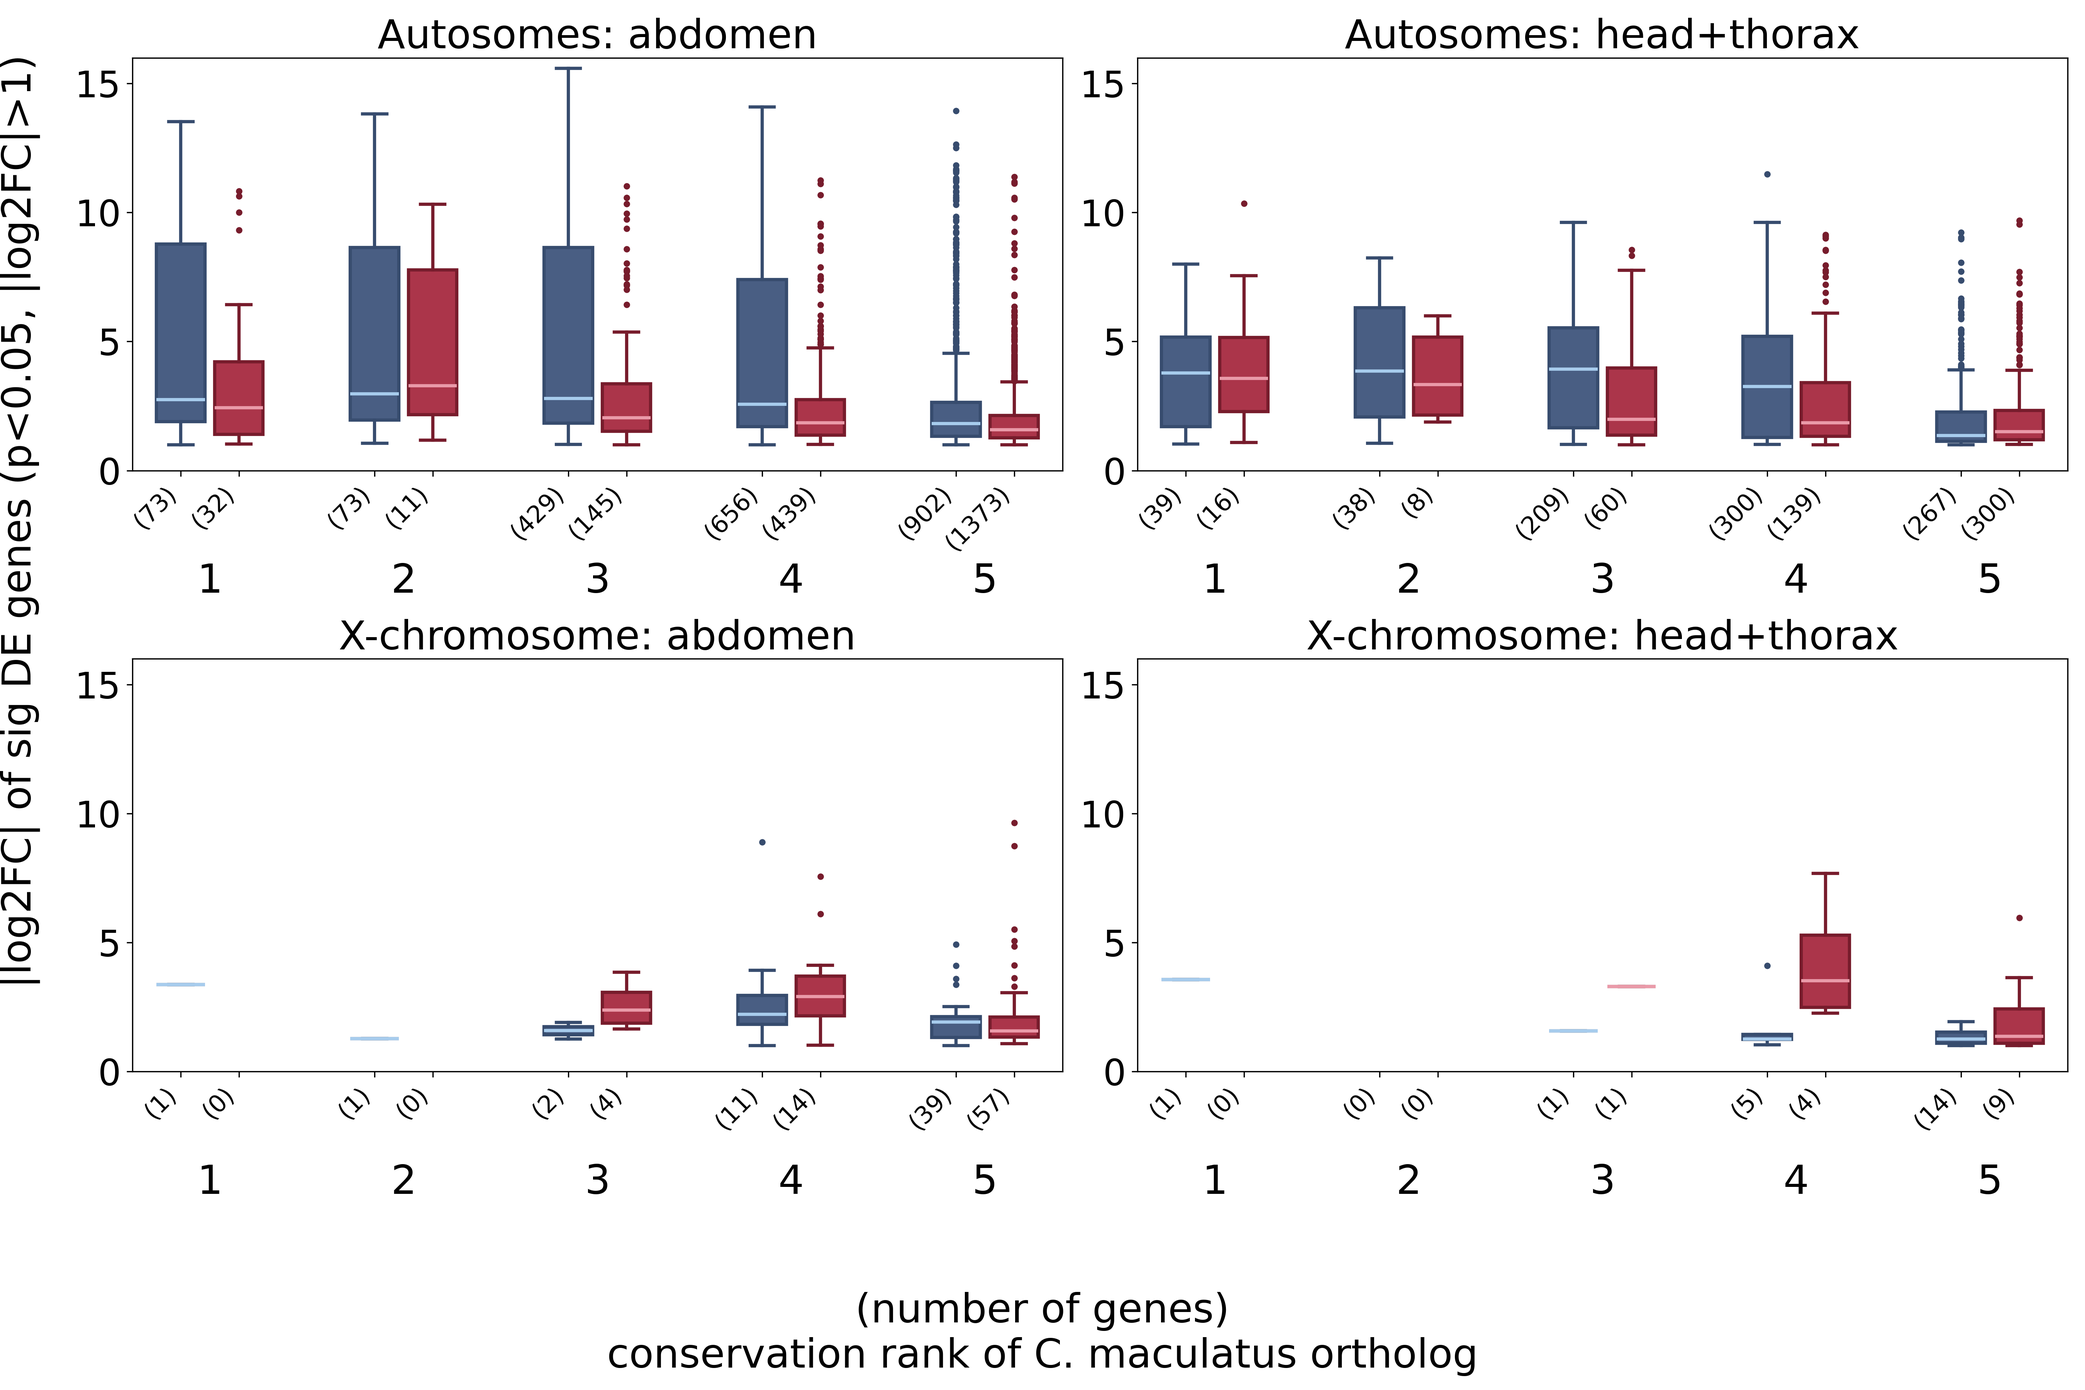
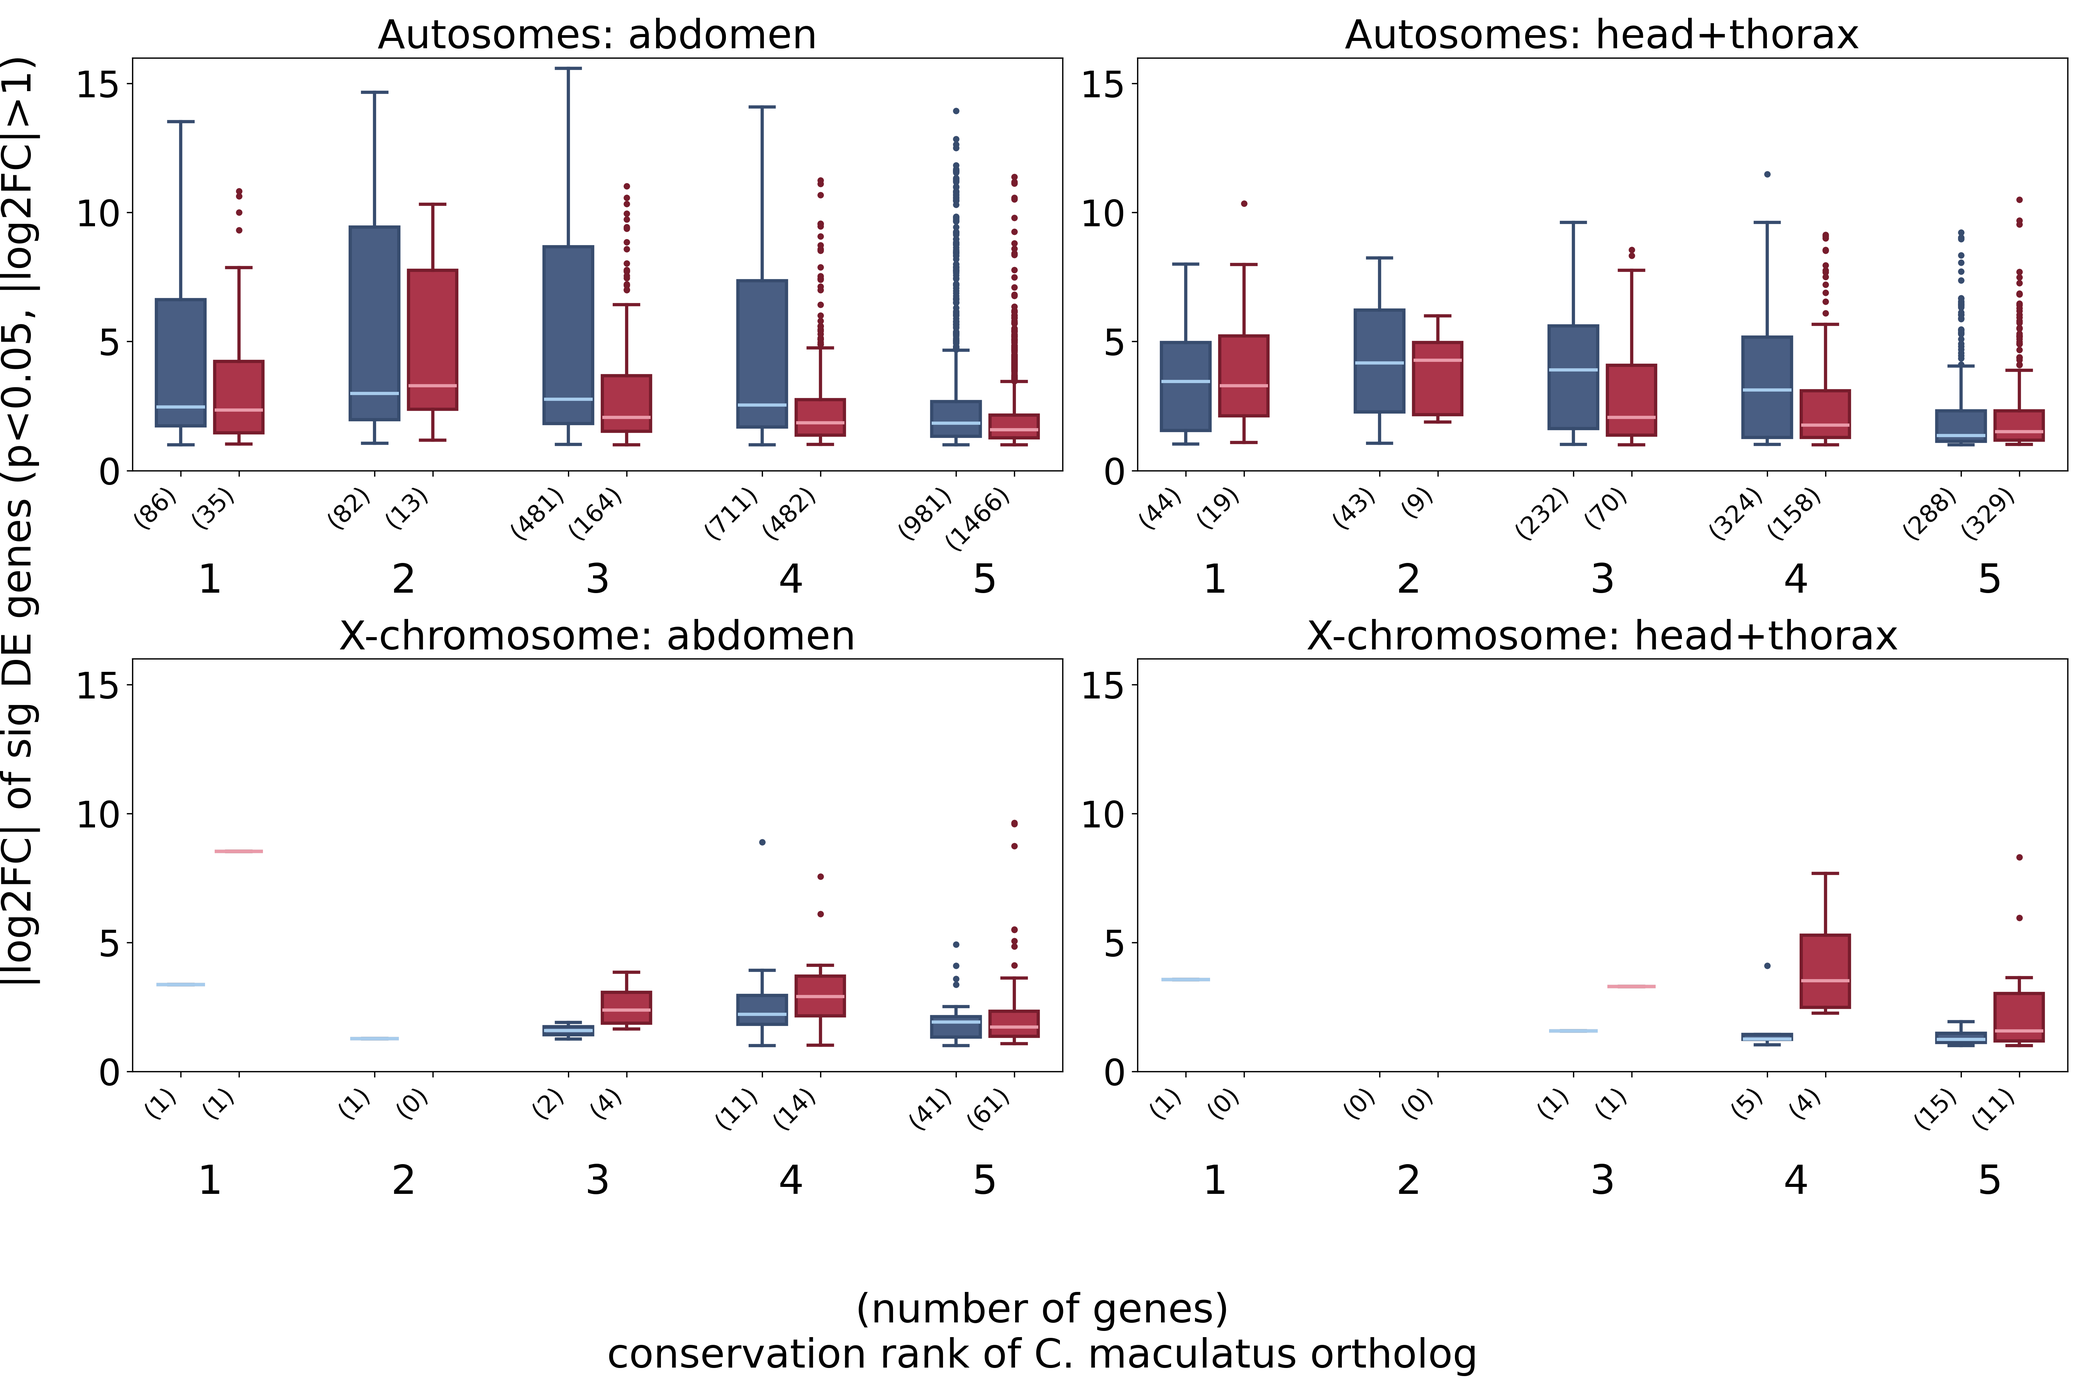
check stuff about medians and model coefficients

diff --git a/src/plotting/analyze_phylo_rank_LFC.py b/src/plotting/analyze_phylo_rank_LFC.py
@@ -316,7 +316,7 @@ def make_log_reg_table(full_table_paths_dict):
 ############################
 
 
-def make_phylogeny_rank_dict(summary_file_df, min_p, min_LFC):
+def make_phylogeny_rank_dict(summary_file_df, min_p, min_LFC, verbose = False, filter_dNdS=True):
     """
     make a dict with rank orders like { 1 : [list, of, Log2FC, numbers] ,  2 [more, log2FC, numbers] , ... }
     """
@@ -324,9 +324,12 @@ def make_phylogeny_rank_dict(summary_file_df, min_p, min_LFC):
     dedup_df = summary_file_df[summary_file_df["other_species"] == "C_chinensis"] # keep only chinensis data to make it comparable with later plots
 
     # Keep only rows where there is a valid dN/dS 
-    dNdS_numeric = pd.to_numeric(dedup_df["dN/dS"], errors='coerce')
-    valid_rows = dNdS_numeric.notna()
-    filtered_df=dedup_df[valid_rows]
+    if filter_dNdS:
+        dNdS_numeric = pd.to_numeric(dedup_df["dN/dS"], errors='coerce')
+        valid_rows = dNdS_numeric.notna()
+        filtered_df=dedup_df[valid_rows]
+    else:
+        filtered_df=dedup_df
     
     LFC_dict_abdomen = { i : [] for i in range(1,6)}
     LFC_dict_head_thorax = { i : [] for i in range(1,6)}
@@ -344,15 +347,22 @@ def make_phylogeny_rank_dict(summary_file_df, min_p, min_LFC):
             if pval<min_p and abs(log2FC_val)>min_LFC:
                 LFC_dict_head_thorax[p_rank].append(log2FC_val)
 
+    if verbose:
+        for rank in LFC_dict_abdomen.keys():
+            print(f"{rank} : abdomen: {np.median(LFC_dict_abdomen[rank])}")
+            print(f"{rank} : head+th: {np.median(LFC_dict_head_thorax[rank])}")
+        print()
+
     return LFC_dict_abdomen, LFC_dict_head_thorax
 
 
 
-def check_DE_phylogeny_rank_conserved(summary_paths_AX_list:dict, outfile = "", abs_LFC=False, sig_p_threshold = 0, sep_MF=True, only_dNdS=False):
+def check_DE_phylogeny_rank_conserved(summary_paths_AX_list:dict, outfile = "", abs_LFC=False, sig_p_threshold = 0, sep_MF=True):
     """
     check if genes with a higher phylogeny conservarion rank have higher log2FC values 
     if abs_LFC=True then do abs() around LFC to assess general sex bias and don't differentiate male-female contrast
     if only_dNdS include only genes that have a valid dNdS estimate
+
     """
 
     summary_data_A = pd.read_csv(summary_paths_AX_list["A"], sep = "\t", index_col=False)
@@ -362,9 +372,12 @@ def check_DE_phylogeny_rank_conserved(summary_paths_AX_list:dict, outfile = "", 
         min_LFC = 1
     else:
         min_LFC = 0
-
-    LFC_dict_abdomen_A, LFC_dict_head_thorax_A = make_phylogeny_rank_dict(summary_data_A, min_p = sig_p_threshold, min_LFC = min_LFC)
-    LFC_dict_abdomen_X, LFC_dict_head_thorax_X = make_phylogeny_rank_dict(summary_data_X, min_p = sig_p_threshold, min_LFC = min_LFC)
+    
+    verbose = False
+    if verbose:
+        print(f"\nplotting medians:")
+    LFC_dict_abdomen_A, LFC_dict_head_thorax_A = make_phylogeny_rank_dict(summary_data_A, min_p = sig_p_threshold, min_LFC = min_LFC, verbose=verbose, filter_dNdS=False)
+    LFC_dict_abdomen_X, LFC_dict_head_thorax_X = make_phylogeny_rank_dict(summary_data_X, min_p = sig_p_threshold, min_LFC = min_LFC, verbose=verbose, filter_dNdS=False)
 
     if abs_LFC and sep_MF==False:
         LFC_lists_abdomen_A = [[abs(val) for val in vals_list] for vals_list in LFC_dict_abdomen_A.values()]
@@ -421,15 +434,19 @@ def check_DE_phylogeny_rank_conserved(summary_paths_AX_list:dict, outfile = "", 
             ax[row,col].axhline(y=0, linestyle = "--", color = "black")
 
 
-    def plot_DE_subplot_sep_MF(lists, row,col, fs, title, colors_dict, abs_logFC, lw=2):
+    def plot_DE_subplot_sep_MF(lists, row,col, fs, title, colors_dict, abs_logFC, lw=2, verbose=False):
         
         ## split into male- and female biased for separate boxplots
         sex_biased_lists = []
         if abs_logFC:
-            for lst in lists:
+            for i,lst in enumerate(lists):
                 male_biased = [abs(x) for x in lst if x < 0]
                 female_biased = [x for x in lst if x > 0]
                 sex_biased_lists.extend([male_biased, female_biased])
+                if verbose and len(lst)>0:
+                    print(f"{i+1} : male: {np.median(male_biased):.3f} \t female: {np.nanmedian(female_biased):.3f}")
+            if verbose:
+                print
         else:
             for lst in lists:
                 male_biased = [x for x in lst if x < 0]
@@ -459,32 +476,33 @@ def check_DE_phylogeny_rank_conserved(summary_paths_AX_list:dict, outfile = "", 
         ax2.tick_params(axis='x', labelsize=fs)
 
         ## modify boxplot colors
-        for i, box in enumerate(bp['boxes']):
-            if i%2==0:
-                box.set(facecolor=colors_dict["fill"], edgecolor=colors_dict["edge"], linewidth=2)
-            else:
-                box.set(facecolor=colors_dict["FB_fill"], edgecolor=colors_dict["FB_edge"], linewidth=2)
-        for i, median in enumerate(bp['medians']):
-            if i%2==0:
-                median.set(color=colors_dict['medians'], linewidth=lw)
-            else:
-                median.set(color=colors_dict['FB_medians'], linewidth=lw)
-        for i, whisker in enumerate(bp['whiskers']):
-            # print(f"whisker: {i}")
-            if i//2 % 2==0:
-                whisker.set(color=colors_dict['edge'], linestyle='-',linewidth=lw)
-            else:
-                whisker.set(color=colors_dict['FB_edge'], linestyle='-',linewidth=lw)
-        for i, cap in enumerate(bp['caps']):
-            if i//2 % 2==0:
-                cap.set(color=colors_dict['edge'],linewidth=lw)
-            else:
-                cap.set(color=colors_dict['FB_edge'],linewidth=lw)
-        for i, flier in enumerate(bp['fliers']):
-            if i%2==0:
-                flier.set(marker='.', markerfacecolor=colors_dict['edge'], markeredgecolor=colors_dict['edge'])
-            else:
-                flier.set(marker='.', markerfacecolor=colors_dict['FB_edge'], markeredgecolor=colors_dict['FB_edge'])
+        if True:
+            for i, box in enumerate(bp['boxes']):
+                if i%2==0:
+                    box.set(facecolor=colors_dict["fill"], edgecolor=colors_dict["edge"], linewidth=2)
+                else:
+                    box.set(facecolor=colors_dict["FB_fill"], edgecolor=colors_dict["FB_edge"], linewidth=2)
+            for i, median in enumerate(bp['medians']):
+                if i%2==0:
+                    median.set(color=colors_dict['medians'], linewidth=lw)
+                else:
+                    median.set(color=colors_dict['FB_medians'], linewidth=lw)
+            for i, whisker in enumerate(bp['whiskers']):
+                # print(f"whisker: {i}")
+                if i//2 % 2==0:
+                    whisker.set(color=colors_dict['edge'], linestyle='-',linewidth=lw)
+                else:
+                    whisker.set(color=colors_dict['FB_edge'], linestyle='-',linewidth=lw)
+            for i, cap in enumerate(bp['caps']):
+                if i//2 % 2==0:
+                    cap.set(color=colors_dict['edge'],linewidth=lw)
+                else:
+                    cap.set(color=colors_dict['FB_edge'],linewidth=lw)
+            for i, flier in enumerate(bp['fliers']):
+                if i%2==0:
+                    flier.set(marker='.', markerfacecolor=colors_dict['edge'], markeredgecolor=colors_dict['edge'])
+                else:
+                    flier.set(marker='.', markerfacecolor=colors_dict['FB_edge'], markeredgecolor=colors_dict['FB_edge'])
     
         if abs_logFC == False:
             ax[row,col].axhline(y=0, linestyle = "--", color = "black")
@@ -501,11 +519,17 @@ def check_DE_phylogeny_rank_conserved(summary_paths_AX_list:dict, outfile = "", 
     }
 
     if sep_MF:
+        verbose = True
         print(f" separate male and female sex biased genes")
-        plot_DE_subplot_sep_MF(LFC_lists_abdomen_A, row=0, col=0, fs=fs, title=f"Autosomes: abdomen", colors_dict=colors, abs_logFC=abs_LFC)
-        plot_DE_subplot_sep_MF(LFC_lists_head_thorax_A, row=0, col=1, fs=fs, title=f"Autosomes: head+thorax", colors_dict=colors, abs_logFC=abs_LFC)
-        plot_DE_subplot_sep_MF(LFC_lists_abdomen_X, row=1, col=0, fs=fs, title=f"X-chromosome: abdomen", colors_dict=colors, abs_logFC=abs_LFC)
-        plot_DE_subplot_sep_MF(LFC_lists_head_thorax_X, row=1, col=1, fs=fs, title=f"X-chromosome: head+thorax", colors_dict=colors, abs_logFC=abs_LFC)
+        
+        print(f"\nAutosomes: abdomen")
+        plot_DE_subplot_sep_MF(LFC_lists_abdomen_A, row=0, col=0, fs=fs, title=f"Autosomes: abdomen", colors_dict=colors, abs_logFC=abs_LFC, verbose = verbose)
+        print(f"\nAutosomes: head+thorax")
+        plot_DE_subplot_sep_MF(LFC_lists_head_thorax_A, row=0, col=1, fs=fs, title=f"Autosomes: head+thorax", colors_dict=colors, abs_logFC=abs_LFC, verbose = verbose)
+        print(f"\nX-chromosome: abdomen")
+        plot_DE_subplot_sep_MF(LFC_lists_abdomen_X, row=1, col=0, fs=fs, title=f"X-chromosome: abdomen", colors_dict=colors, abs_logFC=abs_LFC, verbose = verbose)
+        print(f"\nX-chromosome: head+thorax")
+        plot_DE_subplot_sep_MF(LFC_lists_head_thorax_X, row=1, col=1, fs=fs, title=f"X-chromosome: head+thorax", colors_dict=colors, abs_logFC=abs_LFC, verbose = verbose)
         fig.supxlabel(f"(number of genes)\nconservation rank of C. maculatus ortholog", fontsize = fs)
     else:
         plot_DE_subplot(LFC_lists_abdomen_A, row=0, col=0, fs=fs, title=f"Autosomes: abdomen", colors_dict=colors, abs_logFC=abs_LFC)
@@ -542,7 +566,7 @@ def make_sex_bias_cat_row(row, tissue = "abdomen"):
 
 
 def make_sex_bias_cat_row_numeric(row, tissue = "abdomen"):
-    if row[f"LFC_{tissue}"] < 1:
+    if row[f"LFC_{tissue}"] < -1:
         if row[f"FDR_pval_{tissue}"]<0.05:
             return -1
         else:
@@ -558,6 +582,10 @@ def make_sex_bias_cat_row_numeric(row, tissue = "abdomen"):
 def logFC_quantile_regression(summary_table_path:str, p_val_threshold= 0.05, sep_MF=True, abs_LFC=False):
 
     for chr in ["A", "X"]:
+
+        if chr=="X": ## no stats for X
+            continue
+
         df = pd.read_csv(summary_table_path[chr], sep = "\t", index_col=False)
         
         df = df.rename(columns={'LFC_head+thorax': 'LFC_head_thorax'})
@@ -610,30 +638,29 @@ def logFC_quantile_regression(summary_table_path:str, p_val_threshold= 0.05, sep
             print(model_ht_m.summary())
 
         else:
+            
 
-            ## abdominal df
-            if p_val_threshold >0:
-                df = df_all[df_all["SB_abdomen"] != "unbiased"]
-            else:
-                df = df_all
+            for tissue in ["abdomen", "head_thorax"]:
+                ## abdominal df
+                if p_val_threshold >0:
+                    df = df_all[df_all[f"SB_{tissue}"] != "unbiased"]
+                else:
+                    df = df_all
 
-            formula = "LFC_abdomen ~ level_most_dist_ortholog * C(SB_abdomen)"
-            model_a = smf.quantreg(formula=formula, data=df).fit(q=0.5)
-            print(f"\n////////////////// {chr} :::: ABDOMEN //////////////////")
-            print(f"sex bias categories: {set(df['SB_abdomen'].tolist())}")
-            print(model_a.summary())
+                formula = f"LFC_{tissue} ~ level_most_dist_ortholog * C(SB_{tissue})"
+                model_a = smf.quantreg(formula=formula, data=df).fit(q=0.5)
+                print(f"\n////////////////// {chr} :::: {tissue} //////////////////")
+                print(f"sex bias categories: {set(df[f'SB_{tissue}'].tolist())}")
+                print(model_a.summary())
+                formula = f"LFC_{tissue} ~ level_most_dist_ortholog + C(SB_{tissue})"
+                model_a = smf.quantreg(formula=formula, data=df).fit(q=0.5)
+                print(model_a.summary())
 
-            ## head_thorax 
-            if p_val_threshold >0:
-                df = df_all[df_all["SB_head_thorax"] != "unbiased"]
-            else:
-                df = df_all
-
-            formula = "LFC_head_thorax ~ level_most_dist_ortholog * C(SB_head_thorax)"
-            model_ht = smf.quantreg(formula=formula, data= df).fit(q=0.5)
-            print(f"\n////////////////// {chr} :::: HEAD+THORAX //////////////////")
-            print(f"sex bias categories: {set(df['SB_head_thorax'].tolist())}")
-            print(model_ht.summary())
+                df_male=df_all[df_all[f"SB_{tissue}"] == "male"]
+                test_median_m = np.median(df_male[df_male["level_most_dist_ortholog"]==1][f"LFC_{tissue}"].tolist())
+                df_female=df_all[df_all[f"SB_{tissue}"] == "female"]
+                test_median_f = np.median(df_female[df_female["level_most_dist_ortholog"]==1][f"LFC_{tissue}"].tolist())
+                print(f"{tissue}:{chr}:rank1 medians \t male: {test_median_m:.3f} \tfemale: {test_median_f:.3f}")
 
 
 if __name__ == "__main__":
@@ -669,10 +696,10 @@ if __name__ == "__main__":
             ## plotting the boxplot
             # check_DE_phylogeny_rank_conserved(summary_paths_AX_list=summary_paths,
             #     outfile=f"/Users/{username}/work/PhD_code/PhD_chapter3/data/DE_analysis/conservation_rank_all_sex_bias_proportion.png",
-            #     abs_LFC=abs_logFC, sig_p_threshold=0, only_dNdS = True)
+            #     abs_LFC=abs_logFC, sig_p_threshold=0)
             check_DE_phylogeny_rank_conserved(summary_paths_AX_list=summary_paths,
                 outfile=f"/Users/{username}/work/PhD_code/PhD_chapter3/data/DE_analysis/conservation_rank_sig_sex_bias_proportion.png",
-                abs_LFC=abs_logFC, sig_p_threshold=0.05, only_dNdS = True)
+                abs_LFC=abs_logFC, sig_p_threshold=0.05)
         if True:
             ## statistical analysis
             logFC_quantile_regression(summary_paths, abs_LFC=abs_logFC, p_val_threshold=0.05, sep_MF=False)

diff --git a/README.md b/README.md
@@ -1175,7 +1175,7 @@ When only looking at the expression of significantly sex biased genes we can see
 
 I want to investigate if the magnitude of significant sex-bias is influenced by the chromosome linkage or the conservation rank. I separate the analysis like the panels in the plot, for abdomen and head+thorax tissue as well as chromosome, and I specify this formula `abs(LFC) ~ level_most_dist_ortholog * C(SB)` with LFC being the absolute continuous log2FC, and SB being the significance category (male/unbiased/female, but there is no unbiased data in the significantly differentially expressed genes so it is excluded here. for a model including all genes this would become a three-level factor).
 
-Everything, including all interactions is strongly significant
+Everything, including all interactions is strongly significant. 
 
 Autosomes:
 
@@ -1203,7 +1203,14 @@ C(SB_head_thorax)[T.male]                              2.6746      0.336      7.
 level_most_dist_ortholog                              -0.3525      0.064     -5.518      0.000      -0.478      -0.227
 level_most_dist_ortholog:C(SB_head_thorax)[T.male]    -0.5275      0.079     -6.703      0.000      -0.682      -0.373
 ======================================================================================================================
+```
 
+The actual calculation of the coefficients is a bit unclear to me. the intercept should be female-biased/rank1, which has these medians in the plot: `abdomen=2.346` and `head+thorax=3.292` (they are the same from the plotting function as in the statistical analysis), which does not agree with the coefficients from the models. When I run the model again without interactions, the intercept coefficient increases for both tissues and becomes further away from the plotted/calculated means. The rank order is right, the male median is higher than the female (`abdomen male median = 2.462`, `h+t male median = 3.454`), and the `C(SB_head_thorax)[T.male]` coefficient is larger for head+thorax, where the difference between male and female median is greater (for rank 1). The coefficients are therefore probably some mathematical estimates for rank 1 that take the complete data set and its structure into account, but I don't know for sure how that works. In conclusion it's fine?
+
+<details>
+  <summary>X-statistics (low sample size and therefore weird)</summary>
+
+```text
 ////////////////// X :::: ABDOMEN //////////////////
 Df Residuals: 132
 Df Model: 3
@@ -1228,6 +1235,8 @@ level_most_dist_ortholog                              -0.7322      0.391     -1.
 level_most_dist_ortholog:C(SB_head_thorax)[T.male]     0.5138      0.445      1.155      0.256      -0.391       1.418
 ======================================================================================================================
 ```
+
+</details>
 
 # combining sex-biased expression with molecular rate and positive selection
 
